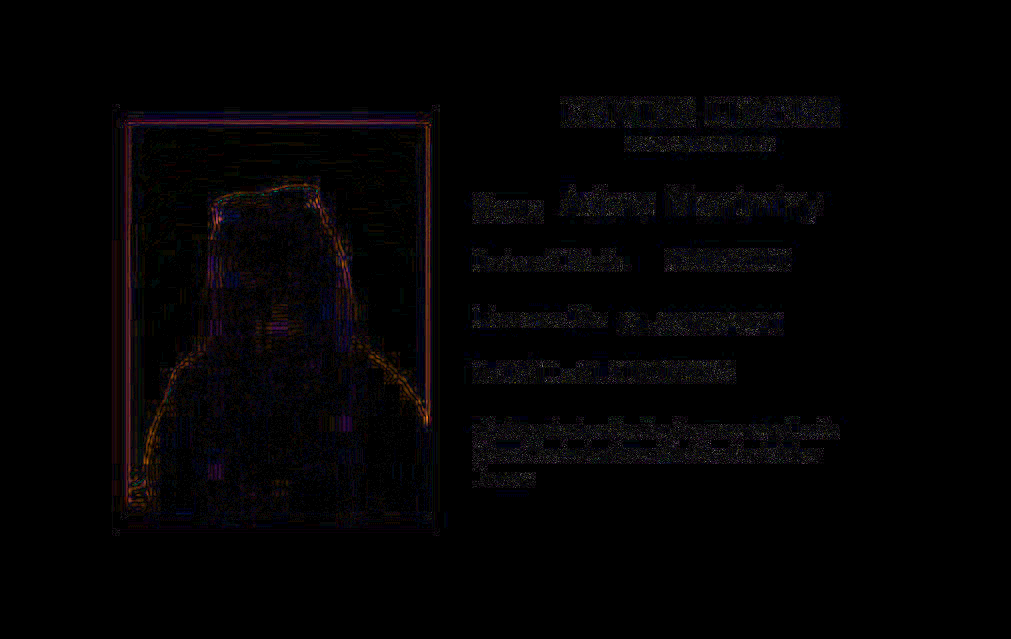
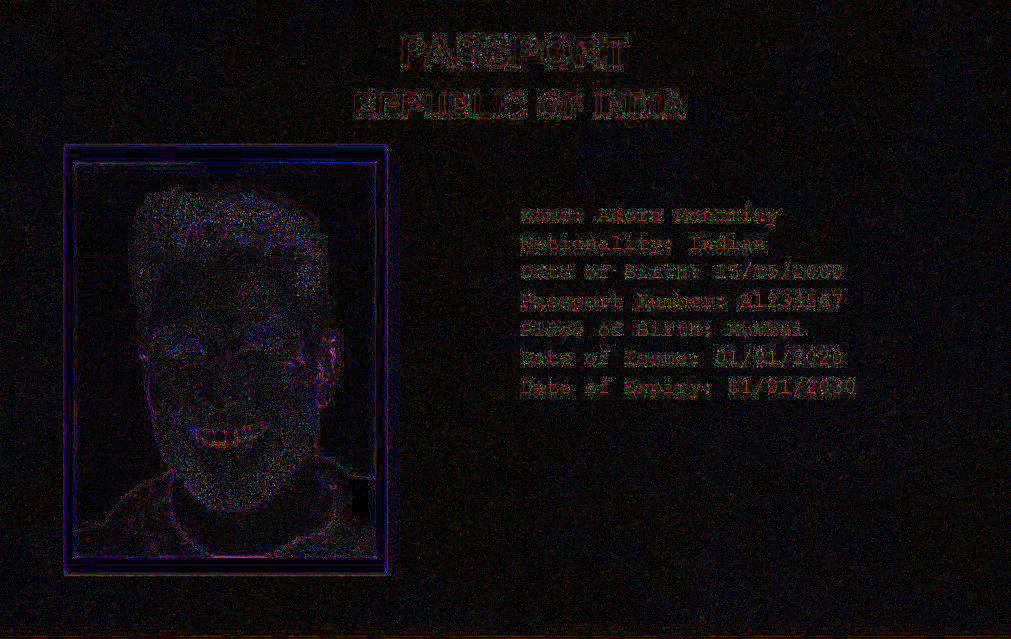
Update document verification

diff --git a/app.py b/app.py
@@ -96,6 +96,10 @@ def verify():
 
         checks, verified = verify_driving_licence(extracted_text)
 
+    else:
+        checks = {"Document Type Recognized": False}
+        verified = False
+
     tampering_checks, tampering_suspected, ela_image_path = detect_tampering(
         file_path
     )
